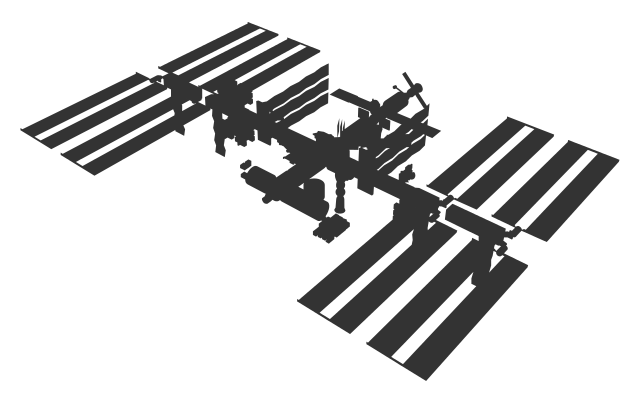
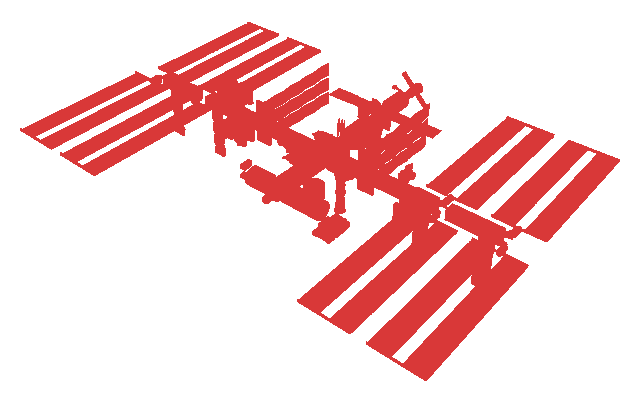
Add routine to get user country info

Changed region(s): [[0.0312, 0.0596, 0.9688, 0.9529]]

diff --git a/libs/js/script.js b/libs/js/script.js
@@ -4,13 +4,159 @@ $(window).on("load", function () {
   $("#loader").hide();
 });
 
+// Retrieve users location on load
 $(document).ready(() => {
   const successCallback = (position) => {
-    L.marker([position.coords.latitude, position.coords.longitude], {
+    userLat = position.coords.latitude;
+    userLng = position.coords.longitude;
+    L.marker([userLat, userLng], {
       icon: userIcon,
     }).addTo(mymap);
+    mymap.panTo([userLat, userLng]);
 
-    mymap.panTo([position.coords.latitude, position.coords.longitude]);
+    $.ajax({
+      url: "libs/php/userCountryInfo.php",
+      type: "POST",
+      dataType: "json",
+      data: {
+        lat: userLat,
+        lng: userLng,
+      },
+      success: function (result) {
+        console.log(result);
+
+        if (result.status.name == "ok") {
+          // Country Info
+          $(".countryFlag").attr("src", result["restCountries"]["flag"]);
+          $(".countryFlag").attr(
+            "alt",
+            result["geoNames"]["info"]["name"] + " flag"
+          );
+          $(".countryName").html(result["geoNames"]["info"]["name"]);
+          $(".region").html(
+            result["restCountries"]["region"] +
+              " | " +
+              result["restCountries"]["subregion"]
+          );
+          $(".area").html(
+            Number(result["restCountries"]["area"]).toLocaleString("en") +
+              " km<sup>2</sup>"
+          );
+          $(".population").html(
+            Number(result["restCountries"]["population"]).toLocaleString("en")
+          );
+          $(".demonym").html(result["restCountries"]["demonym"]);
+          $(".capital").html(result["restCountries"]["capital"]);
+          $(".timezone").html(result["restCountries"]["timezone"]);
+          $(".datetime").html(result["timezone"]["datetime"]);
+          $(".coordinates").html(
+            result["restCountries"]["lat"] +
+              " / " +
+              result["restCountries"]["lng"]
+          );
+          $(".callCode").html("+" + result["restCountries"]["callCode"]);
+          $(".driveOn").html(
+            "The " + result["openCage"]["driveOn"] + " side of the road"
+          );
+          $(".speedIn").html(result["openCage"]["speedIn"]);
+          $(".webDomain").html(result["restCountries"]["webDomain"]);
+          $(".firstWikiUrl").attr(
+            "href",
+            result["geoNames"]["wiki"]["firstWikiUrl"]
+          );
+          $(".secondWikiUrl").attr(
+            "href",
+            result["geoNames"]["wiki"]["secondWikiUrl"]
+          );
+          $(".thirdWikiUrl").attr(
+            "href",
+            result["geoNames"]["wiki"]["thirdWikiUrl"]
+          );
+          $(".firstWikiTitle").html(result["geoNames"]["wiki"]["firstTitle"]);
+          $(".secondWikiTitle").html(result["geoNames"]["wiki"]["secondTitle"]);
+          $(".thirdWikiTitle").html(result["geoNames"]["wiki"]["thirdTitle"]);
+
+          // Currency Info
+          $(".currencyName").html(result["restCountries"]["currency"]["name"]);
+          $(".subunit").html(result["openCage"]["subunit"]);
+          $(".smallDenom").html(result["openCage"]["smallDenom"]);
+          $(".subToUnit").html(result["openCage"]["subToUnit"]);
+          $(".currencySymbol").html(
+            result["restCountries"]["currency"]["symbol"]
+          );
+          $(".currencyCode").html(result["restCountries"]["currency"]["code"]);
+          $(".exchangeRate").html();
+          if (result.exchangeRates != "N/A") {
+            $(".exchangeRate").html(
+              `1 ${result["restCountries"]["currency"]["name"]} = ${result["exchangeRates"]["rate"]} British pound`
+            );
+          } else {
+            $(".exchangeRate").html(
+              "No exchange rate information available at this time"
+            );
+          }
+
+          // Weather Info
+          $(".icon").attr("src", result["openWeather"]["icon"]);
+          $(".main").html(result["openWeather"]["main"]);
+          $(".description").html(result["openWeather"]["description"]);
+          $(".temp").html(result["openWeather"]["temp"] + "&deg;C");
+          $(".feelsLike").html(result["openWeather"]["feelsLike"] + "&deg;C");
+          $(".max").html(result["openWeather"]["max"] + "&deg;C");
+          $(".min").html(result["openWeather"]["min"] + "&deg;C");
+          $(".humidity").html(result["openWeather"]["humidity"] + "%");
+          $(".clouds").html(result["openWeather"]["clouds"] + "%");
+          $(".windSpeed").html(result["openWeather"]["windSpeed"] + " m/s");
+          $(".pressure").html(result["openWeather"]["pressure"] + " hPa");
+
+          // Latest News
+          if (result.news == "N/A") {
+            $(".firstNewsTitle").html(" ");
+            $(".firstNewsDescription").html("No news available at this time");
+            $(".secondNewsTitle").html(" ");
+            $(".secondNewsDescription").html(" ");
+            $(".thirdNewsTitle").html(" ");
+            $(".thirdNewsDescription").html(" ");
+          } else {
+            $(".firstNewsUrl").attr("href", result["news"]["firstUrl"]);
+            $(".firstNewsTitle").html(result["news"]["firstTitle"]);
+            $(".firstNewsDescription").html(result["news"]["firstDescription"]);
+            $(".secondNewsUrl").attr("href", result["news"]["secondUrl"]);
+            $(".secondNewsTitle").html(result["news"]["secondTitle"]);
+            $(".secondNewsDescription").html(
+              result["news"]["secondDescription"]
+            );
+            $(".thirdNewsUrl").attr("href", result["news"]["thirdUrl"]);
+            $(".thirdNewsTitle").html(result["news"]["thirdTitle"]);
+            $(".thirdNewsDescription").html(result["news"]["thirdDescription"]);
+          }
+
+          // COVID-19 Info
+          $(".confirmed").html(result["covid"]["confirmed"]);
+          $(".recovered").html(result["covid"]["recovered"]);
+          $(".deaths").html(result["covid"]["deaths"]);
+          $(".critical").html(result["covid"]["critical"]);
+
+          if (mymap.hasLayer(border)) {
+            mymap.removeLayer(border);
+          }
+
+          border = L.geoJSON(result["border"], {
+            style: function (feature) {
+              return { color: "#D93838" };
+            },
+          }).addTo(mymap);
+          mymap.fitBounds(border.getBounds());
+          $("#loader-container").hide();
+          $("#loader").hide();
+        }
+      },
+      error: function (request, status, error) {
+        console.log(error);
+        $("#loader-container").hide();
+        $("#loader").hide();
+      },
+    });
   };
 
   const errorCallback = (error) => {
@@ -26,7 +172,7 @@ $(document).ready(() => {
   });
 });
 
-// Map tiles
+// Map tiles & Overlays
 var Esri_WorldImagery = L.tileLayer(
   "https://server.arcgisonline.com/ArcGIS/rest/services/World_Imagery/MapServer/tile/{z}/{y}/{x}",
   {
@@ -164,6 +310,11 @@ var mapOverlays = {
 
 L.control.layers(baseMaps, mapOverlays).addTo(mymap);
 
+var border;
+var issLocation;
+var userLat;
+var userLng;
+
 //EasyButtons
 L.easyButton(
   "<i class='fas fa-info-circle'></i>",
@@ -213,7 +364,11 @@ L.easyButton(
       type: "POST",
       dataType: "json",
       success: function (result) {
-        L.marker([result.iss.lat, result.iss.lng], {
+        if (issLocation) {
+          mymap.removeLayer(issLocation);
+        }
+
+        issLocation = L.marker([result.iss.lat, result.iss.lng], {
           icon: issIcon,
         })
           .bindPopup("Current location of the International Space Station")
@@ -374,14 +529,16 @@ $("#selectCountry").change(function () {
         $(".deaths").html(result["covid"]["deaths"]);
         $(".critical").html(result["covid"]["critical"]);
 
-        var border = result["border"];
+        if (mymap.hasLayer(border)) {
+          mymap.removeLayer(border);
+        }
 
-        var addedBorder = L.geoJSON(border, {
+        border = L.geoJSON(result["border"], {
           style: function (feature) {
             return { color: "#D93838" };
           },
         }).addTo(mymap);
-        mymap.fitBounds(addedBorder.getBounds());
+        mymap.fitBounds(border.getBounds());
         $("#loader-container").hide();
         $("#loader").hide();
       }

diff --git a/libs/css/styles.css b/libs/css/styles.css
@@ -1,1 +1,1 @@
-.navbar{height:10vh;font-size:0.9rem}.navbar .btn{border:1px solid #0085ff;color:#0085ff;font-size:0.9rem}.navbar .btn:hover{background:#0085ff;color:white}.navbar #selectCountry{padding:0.25rem;width:20rem;text-align-last:center}#loader-container{display:flex;justify-content:center;align-items:center;background:white;height:100vh;width:100vw;z-index:1000;position:fixed}#loader-container #loader{border:1rem solid #f3f3f3;border-top:1rem solid #3498db;border-radius:50%;width:120px;height:120px;animation:spin 1.5s linear infinite;z-index:1000}@keyframes spin{0%{transform:rotate(0deg)}100%{transform:rotate(360deg)}}#mapid{height:90vh;width:100vw;position:relative;z-index:1}.countryFlag{max-width:150px}.fas{font-size:1rem}html{font-family:"Segoe UI", Tahoma, Geneva, Verdana, sans-serif}
+.navbar{height:10vh;font-size:0.9rem}.navbar .btn{border:1px solid #0085ff;color:#0085ff;font-size:0.9rem}.navbar .btn:hover{background:#0085ff;color:white}.navbar #selectCountry{padding:0.25rem;width:20rem;text-align-last:center}#loader-container{display:flex;justify-content:center;align-items:center;background:white;height:100vh;width:100vw;z-index:1000;position:fixed}#loader-container #loader{border:1rem solid #f3f3f3;border-top:1rem solid #d93838;border-radius:50%;width:120px;height:120px;animation:spin 1.5s linear infinite;z-index:1000}@keyframes spin{0%{transform:rotate(0deg)}100%{transform:rotate(360deg)}}#mapid{height:90vh;width:100vw;position:relative;z-index:1}.countryFlag{max-width:150px}.fas{font-size:1rem}html{font-family:"Segoe UI", Tahoma, Geneva, Verdana, sans-serif}

diff --git a/index.html b/index.html
@@ -149,15 +149,17 @@
                   >":
                 </td>
                 <td class="left">
-                  <a href="" class="firstWikiUrl"
-                    ><span class="firstWikiTitle"></span></a
-                  >,
-                  <a href="" class="secondWikiUrl"
-                    ><span class="secondWikiTitle"></span></a
-                  >,
-                  <a href="" class="thirdWikiUrl"
-                    ><span class="thirdWikiTitle"></span
-                  ></a>
+                  <ol>
+                    <li><a href="" class="firstWikiUrl"
+                      ><span class="firstWikiTitle"></span></a
+                    ></li>
+                    <li><a href="" class="secondWikiUrl"
+                      ><span class="secondWikiTitle"></span></a
+                    ></li>
+                    <li><a href="" class="thirdWikiUrl"
+                      ><span class="thirdWikiTitle"></span
+                    ></a></li>
+                  </ol>
                 </td>
               </tr>
             </table>

diff --git a/libs/scss/_loader.scss b/libs/scss/_loader.scss
@@ -10,7 +10,7 @@
 
   #loader {
     border: 1rem solid #f3f3f3;
-    border-top: 1rem solid #3498db;
+    border-top: 1rem solid #d93838;
     border-radius: 50%;
     width: 120px;
     height: 120px;

diff --git a/libs/php/userCountryInfo.php b/libs/php/userCountryInfo.php
@@ -5,8 +5,28 @@
 
     $executionStartTime = microtime(true);
 
+    //OpenCage Routine
+    $oc_url='https://api.opencagedata.com/geocode/v1/json?q=' . $_REQUEST['lat'] . '+' . $_REQUEST['lng'] . '&key=c10468007be7424bb69d013e20efe738';
+
+    $oc_ch = curl_init();
+    curl_setopt($oc_ch, CURLOPT_SSL_VERIFYPEER, false);
+	curl_setopt($oc_ch, CURLOPT_RETURNTRANSFER, true);
+	curl_setopt($oc_ch, CURLOPT_URL, $oc_url);
+
+    $oc_result = curl_exec($oc_ch);
+
+    curl_close($oc_ch);
+
+    $oc_decode = json_decode($oc_result,true);
+    $openCage['code'] = $oc_decode['results'][0]['components']['ISO_3166-1_alpha-3'];
+    $openCage['smallDenom'] = $oc_decode['results'][0]['annotations']['currency']['smallest_denomination'];
+    $openCage['subunit'] = $oc_decode['results'][0]['annotations']['currency']['subunit'];
+    $openCage['subToUnit'] = $oc_decode['results'][0]['annotations']['currency']['subunit_to_unit'];
+    $openCage['driveOn'] = $oc_decode['results'][0]['annotations']['roadinfo']['drive_on'];
+    $openCage['speedIn'] = $oc_decode['results'][0]['annotations']['roadinfo']['speed_in'];
+
     // RESTCountries Routine
-    $rc_url='https://restcountries.eu/rest/v2/alpha/' . $_REQUEST['code'];
+    $rc_url='https://restcountries.eu/rest/v2/alpha/' . $openCage['code'];
 
 	$rc_ch = curl_init();
     curl_setopt($rc_ch, CURLOPT_SSL_VERIFYPEER, false);
@@ -37,7 +57,7 @@
     //OpenWeather Routine
     $ow_api_key = 'cdab949d45e6ad36e58acb23d320ef18';
 
-    $ow_url='https://api.openweathermap.org/data/2.5/weather?lat=' . $rest_countries['lat'] . '&lon=' . $rest_countries['lng'] . '&units=metric&appid=' . $ow_api_key;
+    $ow_url='https://api.openweathermap.org/data/2.5/weather?lat=' . $_REQUEST['lat'] . '&lon=' . $_REQUEST['lng'] . '&units=metric&appid=' . $ow_api_key;
 
     $ow_ch = curl_init();
     curl_setopt($ow_ch, CURLOPT_SSL_VERIFYPEER, false);
@@ -122,25 +142,6 @@
     $geonames_wiki['secondWikiUrl'] = $gnw_decode['geonames'][1]['wikipediaUrl'];
     $geonames_wiki['thirdTitle'] = $gnw_decode['geonames'][2]['title'];
     $geonames_wiki['thirdWikiUrl'] = $gnw_decode['geonames'][2]['wikipediaUrl'];
-
-    //OpenCage Routine
-    $oc_url='https://api.opencagedata.com/geocode/v1/json?q=' . $rest_countries['lat'] . ',' . $rest_countries['lng'] . '&key=c10468007be7424bb69d013e20efe738';
-
-    $oc_ch = curl_init();
-    curl_setopt($oc_ch, CURLOPT_SSL_VERIFYPEER, false);
-	curl_setopt($oc_ch, CURLOPT_RETURNTRANSFER, true);
-	curl_setopt($oc_ch, CURLOPT_URL, $oc_url);
-
-    $oc_result = curl_exec($oc_ch);
-
-    curl_close($oc_ch);
-
-    $oc_decode = json_decode($oc_result,true);
-    $openCage['smallDenom'] = $oc_decode['results'][0]['annotations']['currency']['smallest_denomination'];
-    $openCage['subunit'] = $oc_decode['results'][0]['annotations']['currency']['subunit'];
-    $openCage['subToUnit'] = $oc_decode['results'][0]['annotations']['currency']['subunit_to_unit'];
-    $openCage['driveOn'] = $oc_decode['results'][0]['annotations']['roadinfo']['drive_on'];
-    $openCage['speedIn'] = $oc_decode['results'][0]['annotations']['roadinfo']['speed_in'];
 
     //Timezone Routine
     $tz_url='https://timezone.abstractapi.com/v1/current_time?api_key=10f6a0ab29b841cca8ada144c04e152d&location=' . $rest_countries['capital'] . ',' . $geonames_info['name'];
